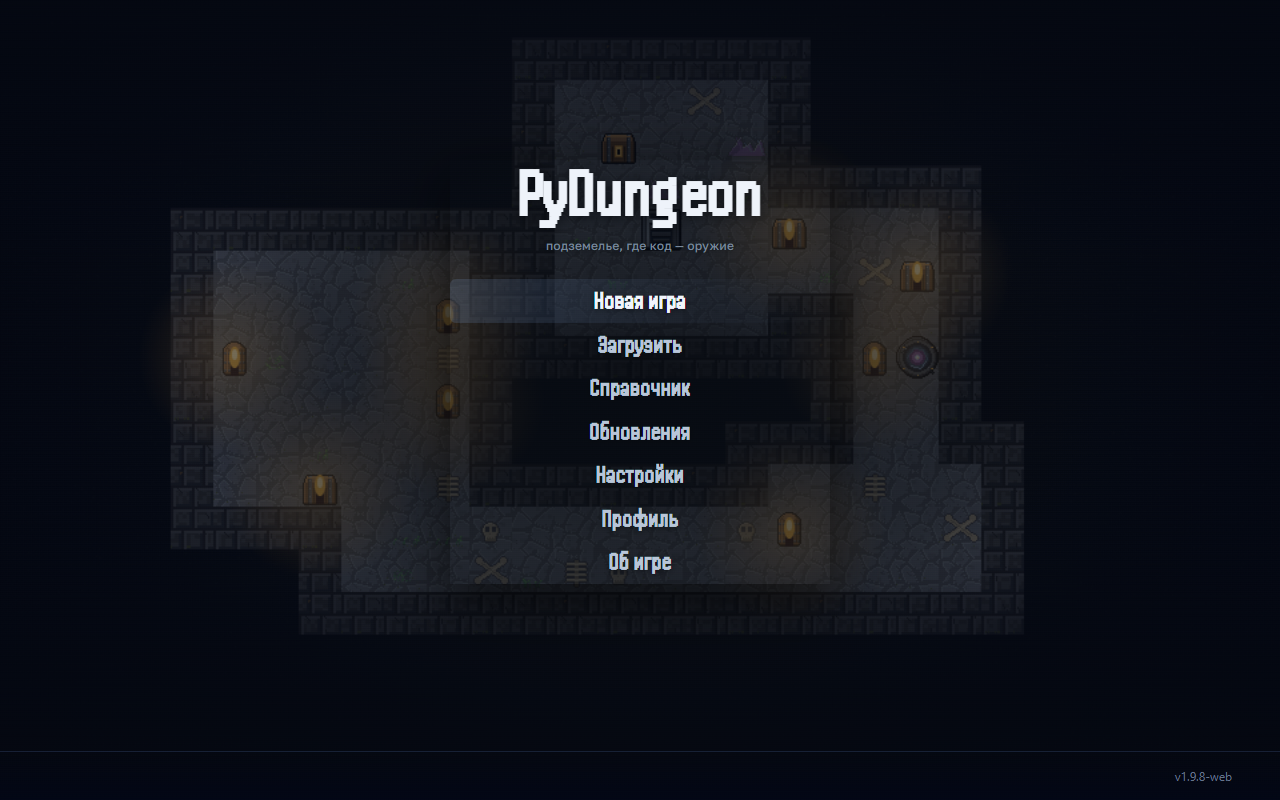
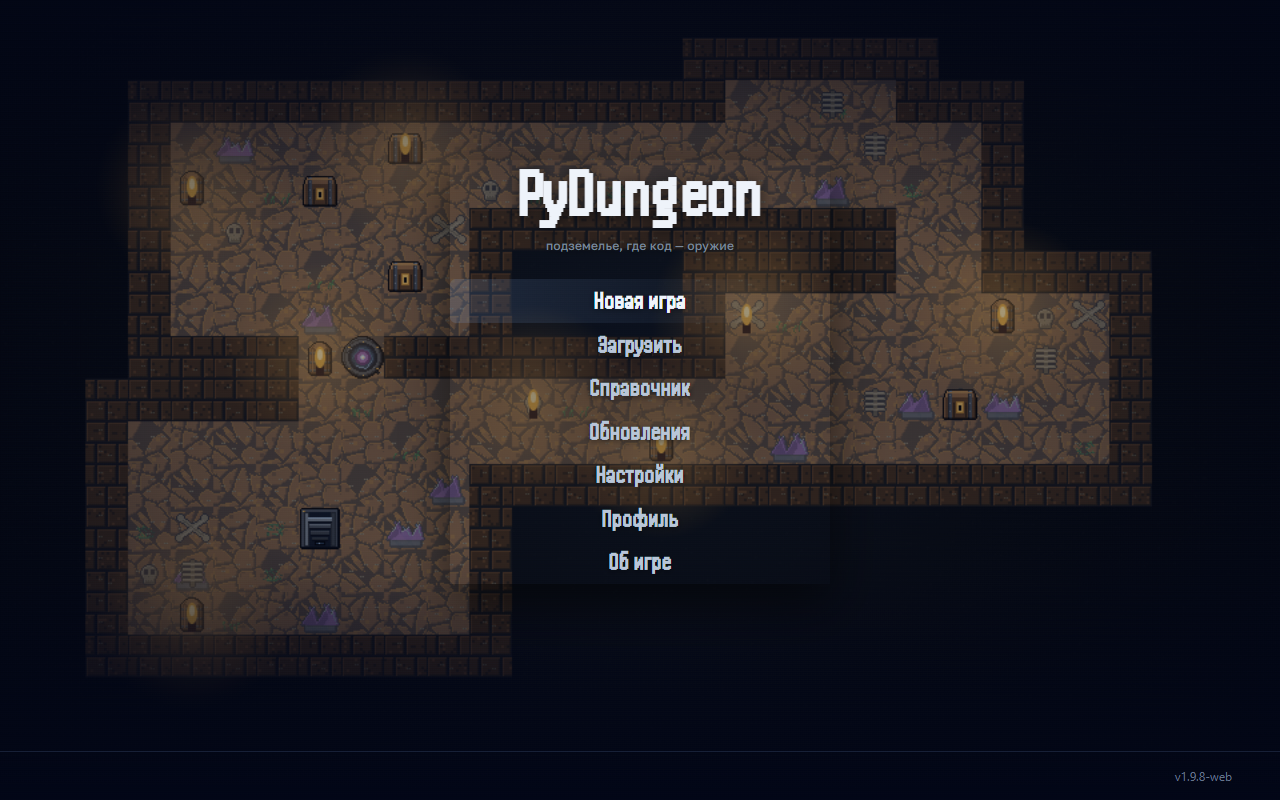
Убрать затемнение под главным меню

diff --git a/static/menu.css b/static/menu.css
@@ -1309,14 +1309,7 @@ body.reduce-motion *::after {
   text-shadow: 0 2px 14px rgba(4, 7, 11, 0.7);
 }
 
-/* Затемнение под списком: этаж остаётся виден, но буквы не тонут в тайлах. */
-#menu-overlay.menu-main .menu-screen::before {
-  background:
-    radial-gradient(44% 48% at 50% 47%, rgba(6, 9, 13, 0.62) 0%,
-      rgba(6, 9, 13, 0.3) 62%, transparent 84%),
-    linear-gradient(180deg, rgba(6, 9, 13, 0.46) 0%, rgba(6, 9, 13, 0.12) 32%,
-      rgba(6, 9, 13, 0.2) 70%, rgba(6, 9, 13, 0.62) 100%);
-}
+/* Затемнение под списком не нужно: фон должен быть виден полностью. */
 
 /* Подзаголовок: мелкий обычный шрифт, чтобы не рябило рядом с пикселями. */
 #menu-view-main .menu-tagline-main {
